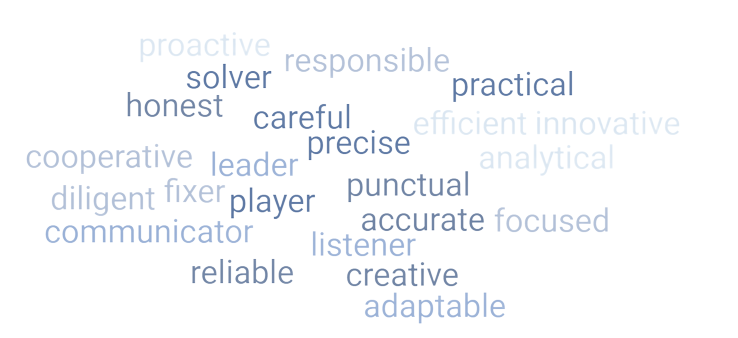
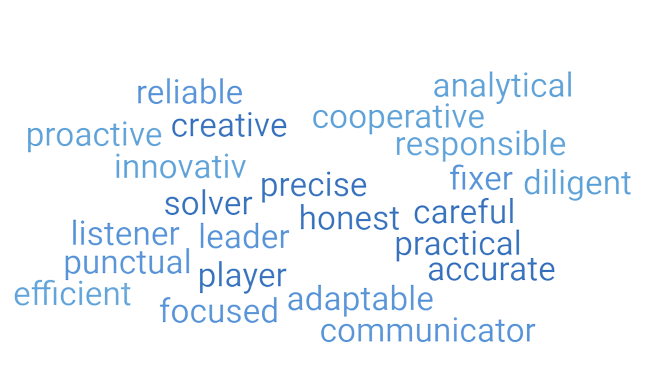
wordClodu css fixing

Changed region(s): [[0.0, 0.0888, 0.9538, 0.9467]]

diff --git a/dist/output.css b/dist/output.css
@@ -583,8 +583,8 @@ video {
   margin-bottom: 2.5rem;
 }
 
-.ml-\[250px\] {
-  margin-left: 250px;
+.ml-\[200px\] {
+  margin-left: 200px;
 }
 
 .mb-2 {
@@ -619,14 +619,6 @@ video {
   margin-bottom: 1rem;
 }
 
-.ml-\[220px\] {
-  margin-left: 220px;
-}
-
-.ml-\[200px\] {
-  margin-left: 200px;
-}
-
 .flex {
   display: flex;
 }
@@ -643,12 +635,12 @@ video {
   height: 100vh;
 }
 
-.h-28 {
-  height: 7rem;
-}
-
 .h-32 {
   height: 8rem;
+}
+
+.h-24 {
+  height: 6rem;
 }
 
 .h-14 {
@@ -671,48 +663,16 @@ video {
   height: 10rem;
 }
 
-.h-48 {
-  height: 12rem;
-}
-
-.h-64 {
-  height: 16rem;
-}
-
-.h-80 {
-  height: 20rem;
-}
-
-.h-60 {
-  height: 15rem;
-}
-
 .h-20 {
   height: 5rem;
 }
 
-.h-\[50vh\] {
-  height: 50vh;
-}
-
-.h-\[90vh\] {
-  height: 90vh;
-}
-
-.h-24 {
-  height: 6rem;
-}
-
-.h-36 {
-  height: 9rem;
+.w-32 {
+  width: 8rem;
 }
 
 .w-\[360px\] {
   width: 360px;
-}
-
-.w-48 {
-  width: 12rem;
 }
 
 .w-52 {
@@ -743,40 +703,8 @@ video {
   width: 5rem;
 }
 
-.w-56 {
-  width: 14rem;
-}
-
-.w-64 {
-  width: 16rem;
-}
-
-.w-72 {
-  width: 18rem;
-}
-
 .w-80 {
   width: 20rem;
-}
-
-.w-\[500px\] {
-  width: 500px;
-}
-
-.w-96 {
-  width: 24rem;
-}
-
-.w-28 {
-  width: 7rem;
-}
-
-.w-36 {
-  width: 9rem;
-}
-
-.w-32 {
-  width: 8rem;
 }
 
 @keyframes bounce {
@@ -851,12 +779,12 @@ video {
   border-radius: 9999px;
 }
 
-.rounded-md {
-  border-radius: 0.375rem;
-}
-
 .rounded-2xl {
   border-radius: 1rem;
+}
+
+.rounded-md {
+  border-radius: 0.375rem;
 }
 
 .rounded-lg {
@@ -917,11 +845,6 @@ video {
   background-color: rgb(254 202 202 / var(--tw-bg-opacity));
 }
 
-.bg-red-400 {
-  --tw-bg-opacity: 1;
-  background-color: rgb(248 113 113 / var(--tw-bg-opacity));
-}
-
 .bg-gradient-to-r {
   background-image: linear-gradient(to right, var(--tw-gradient-stops));
 }
@@ -930,9 +853,9 @@ video {
   background-image: linear-gradient(to top, var(--tw-gradient-stops));
 }
 
-.from-white {
-  --tw-gradient-from: #fff;
-  --tw-gradient-to: rgb(255 255 255 / 0);
+.from-blue-100 {
+  --tw-gradient-from: #dbeafe;
+  --tw-gradient-to: rgb(219 234 254 / 0);
   --tw-gradient-stops: var(--tw-gradient-from), var(--tw-gradient-to);
 }
 
@@ -948,8 +871,26 @@ video {
   --tw-gradient-stops: var(--tw-gradient-from), var(--tw-gradient-to);
 }
 
-.to-blue-200 {
-  --tw-gradient-to: #bfdbfe;
+.from-white {
+  --tw-gradient-from: #fff;
+  --tw-gradient-to: rgb(255 255 255 / 0);
+  --tw-gradient-stops: var(--tw-gradient-from), var(--tw-gradient-to);
+}
+
+.from-blue-50 {
+  --tw-gradient-from: #eff6ff;
+  --tw-gradient-to: rgb(239 246 255 / 0);
+  --tw-gradient-stops: var(--tw-gradient-from), var(--tw-gradient-to);
+}
+
+.from-slate-900 {
+  --tw-gradient-from: #0f172a;
+  --tw-gradient-to: rgb(15 23 42 / 0);
+  --tw-gradient-stops: var(--tw-gradient-from), var(--tw-gradient-to);
+}
+
+.to-blue-400 {
+  --tw-gradient-to: #60a5fa;
 }
 
 .to-black {
@@ -958,6 +899,14 @@ video {
 
 .to-slate-50 {
   --tw-gradient-to: #f8fafc;
+}
+
+.to-blue-200 {
+  --tw-gradient-to: #bfdbfe;
+}
+
+.to-blue-100 {
+  --tw-gradient-to: #dbeafe;
 }
 
 .p-4 {
@@ -988,11 +937,6 @@ video {
 .text-2xl {
   font-size: 1.5rem;
   line-height: 2rem;
-}
-
-.text-3xl {
-  font-size: 1.875rem;
-  line-height: 2.25rem;
 }
 
 .text-lg {
@@ -1075,7 +1019,8 @@ video {
 }
 
 ::-webkit-scrollbar-thumb {
-  background-image: linear-gradient(#0071fb, white, #0071fb)
+  /* background-image: linear-gradient(#0071fb, white, #0071fb) */
+  background-color: blue;
 }
 
 @keyframes pulse {
@@ -1110,14 +1055,6 @@ video {
 }
 
 @media (min-width: 768px) {
-  .md\:mt-36 {
-    margin-top: 9rem;
-  }
-
-  .md\:mt-32 {
-    margin-top: 8rem;
-  }
-
   .md\:ml-\[450px\] {
     margin-left: 450px;
   }
@@ -1146,56 +1083,50 @@ video {
     height: 70vh;
   }
 
-  .md\:h-\[90vh\] {
-    height: 90vh;
-  }
-
-  .md\:h-\[256px\] {
-    height: 256px;
-  }
-
   .md\:h-\[100vh\] {
     height: 100vh;
-  }
-
-  .md\:h-\[80vh\] {
-    height: 80vh;
-  }
-
-  .md\:h-\[95vh\] {
-    height: 95vh;
   }
 
   .md\:h-60 {
     height: 15rem;
   }
 
-  .md\:h-32 {
-    height: 8rem;
-  }
-
-  .md\:h-28 {
-    height: 7rem;
-  }
-
-  .md\:h-20 {
-    height: 5rem;
-  }
-
   .md\:h-24 {
     height: 6rem;
   }
 
-  .md\:w-\[512px\] {
-    width: 512px;
+  .md\:h-\[256px\] {
+    height: 256px;
   }
 
   .md\:w-60 {
     width: 15rem;
   }
 
+  .md\:w-\[512px\] {
+    width: 512px;
+  }
+
+  .md\:w-80 {
+    width: 20rem;
+  }
+
+  .md\:w-\[400px\] {
+    width: 400px;
+  }
+
   .md\:gap-12 {
     gap: 3rem;
+  }
+
+  .md\:from-white {
+    --tw-gradient-from: #fff;
+    --tw-gradient-to: rgb(255 255 255 / 0);
+    --tw-gradient-stops: var(--tw-gradient-from), var(--tw-gradient-to);
+  }
+
+  .md\:to-blue-400 {
+    --tw-gradient-to: #60a5fa;
   }
 
   .md\:text-3xl {

diff --git a/index.html b/index.html
@@ -15,7 +15,7 @@
         rel="stylesheet">
 </head>
 
-<body class="container mx-auto mt-10 font-sans bg-gradient-to-r from-white to-blue-200">
+<body class="container mx-auto mt-10 font-sans bg-gradient-to-r from-blue-50 to-blue-100 md:from-white md:to-blue-400">
     <!-- Hero Section -->
     <header id="headerContainer">
         <div class="flex flex-col text-center items-center gap-4 mb-10 font-montserrat md:h-[100vh]">
@@ -28,7 +28,7 @@
             <h1 class="text-2xl md:text-3xl text-slate-700" id="fullName">Alexander von Mentzer</h1>
             <h2 class="text-2xl md:text-2xl text-[#0a66c2] hover:font-code">I'm a coder.</h2>
             <p class="w-[360px] h-24 md:h-24 font-roboto text-lg" id="headline"></p>
-            <img src="media/cloud.png" alt="wordCloud" class="md:w-100 md:h-60">
+            <img src="media/cloud.png" alt="wordCloud" class="w-80 h-40 md:w-[400px] md:h-60">
             <a href="https://www.linkedin.com/in/avmentzer" target="_blank"><img width="72" height="72"
                     src="media/linkedin-svgrepo-com.svg" alt="linkedin" class="md:mb-0 hover:drop-shadow-xl "></a>
             <a href="#main"><img src="media/down-arrow.png" alt="scroll down" width="48" height="48"

diff --git a/app.js b/app.js
@@ -20,8 +20,8 @@ const body = document.querySelector('body')
 const fullName = document.getElementById('fullName')
 
 toggleButton.addEventListener('click', () => {
-    const brightMode = 'container mx-auto mt-10 font-sans bg-gradient-to-r from-white to-blue-200'
-    const darkMode = 'container mx-auto mt-10 font-sans bg-gradient-to-r from-slate-800 to-black text-[#0a66c2] dark'
+    const brightMode = 'container mx-auto mt-10 font-sans bg-gradient-to-r from-blue-50 to-blue-100 md:from-white md:to-blue-400'
+    const darkMode = 'container mx-auto mt-10 font-sans bg-gradient-to-r from-slate-900 to-black text-[#0a66c2] dark'
     if (body.classList.contains('dark')) {
         body.classList = brightMode
         fullName.classList.add('text-slate-700')

diff --git a/src/input.css b/src/input.css
@@ -9,5 +9,6 @@
 }
 
 ::-webkit-scrollbar-thumb {
-    background-image: linear-gradient(#0071fb, white, #0071fb)
+    /* background-image: linear-gradient(#0071fb, white, #0071fb) */
+    background-color: blue;
 }
